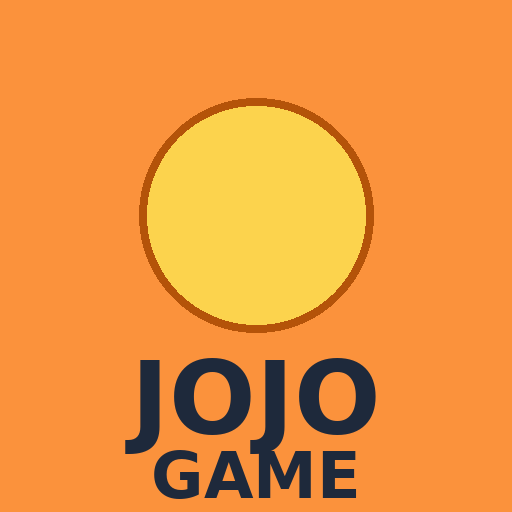
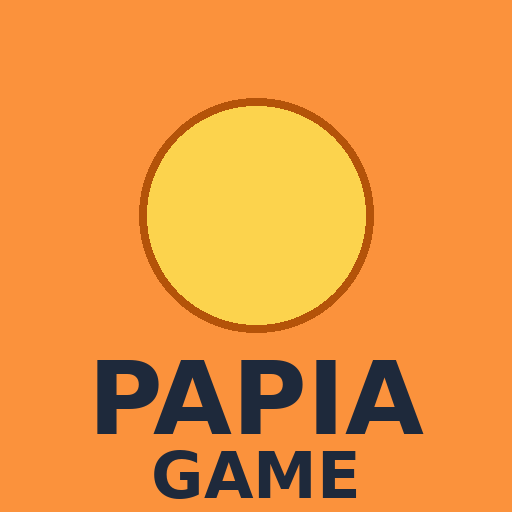
Add files via upload

Changed region(s): [[0.1875, 0.6875, 0.8438, 0.9062]]

diff --git a/index.html b/index.html
@@ -7,12 +7,12 @@
 <meta name="theme-color" content="#0f172a"/>
 <meta name="apple-mobile-web-app-capable" content="yes"/>
 <meta name="apple-mobile-web-app-status-bar-style" content="black-translucent"/>
-<meta name="apple-mobile-web-app-title" content="JOJO GAME"/>
+<meta name="apple-mobile-web-app-title" content="PAPIA GAME"/>
 <meta name="mobile-web-app-capable" content="yes"/>
 <link rel="manifest" href="manifest.json"/>
 <link rel="icon" type="image/png" sizes="192x192" href="icon-192.png"/>
 <link rel="apple-touch-icon" href="icon-512.png"/>
-<title>JOJO GAME - 12 Pièces Challenge</title>
+<title>PAPIA GAME - 12 Pièces Challenge</title>
 <style>
   * { color-scheme: dark; }
 
@@ -234,7 +234,7 @@
 <!-- WELCOME -->
 <div id="modeSelectOverlay" class="modal-overlay">
     <div class="welcome-container">
-        <h1 class="welcome-title" id="welcomeTitle" style="margin-top: 100px; padding-top: 30px;">🎮 JOJO GAME</h1>
+        <h1 class="welcome-title" id="welcomeTitle" style="margin-top: 100px; padding-top: 30px;">🎮 PAPIA GAME</h1>
         
         <p class="welcome-subtitle" id="welcomeSubtitle">Trouvez la fausse pièce parmi 12 en</p>
         
@@ -267,6 +267,7 @@
         <div class="lang-switcher">
             <button class="lang-btn active" id="btnFR">🇫🇷 Français</button>
             <button class="lang-btn" id="btnEN" style="font-weight: 900; font-size: 1.2rem; color: white !important; background: #1e293b !important;">🇬🇧 English</button>
+            <button class="lang-btn" id="btnThemes" style="font-weight: 900; font-size: 1.2rem;">🎨 Thèmes</button>
         </div>
         
         <div class="tutorial-link">
@@ -275,6 +276,65 @@
         
         <p class="welcome-note" id="welcomeNote">(La fausse pièce peut être plus lourde ou plus légère que les autres)</p>
     </div>
+</div>
+
+<!-- VICTORY MODAL -->
+
+<!-- THEMES MODAL -->
+<div id="themesOverlay" class="tutorial-overlay" style="display:none;">
+  <div class="tutorial-content" style="max-width: 500px; padding: 30px;">
+    <h2 style="color: #fb923c; margin: 0 0 20px 0; text-align: center;">🎨 Choisir un Thème</h2>
+    
+    <div id="themesGrid" style="display: grid; grid-template-columns: repeat(2, 1fr); gap: 15px; margin-bottom: 25px;">
+      <!-- Thème Orange -->
+      <div class="theme-card" data-theme="orange" style="cursor: pointer; padding: 20px; border-radius: 12px; text-align: center; border: 3px solid transparent; transition: all 0.3s; background: linear-gradient(135deg, #fb923c, #f97316);">
+        <div style="font-size: 2rem; margin-bottom: 8px;">🧡</div>
+        <div style="font-weight: bold; color: white;">Orange</div>
+        <div style="font-size: 0.85rem; color: rgba(255,255,255,0.9);">Classique</div>
+      </div>
+      
+      <!-- Thème Bleu -->
+      <div class="theme-card" data-theme="blue" style="cursor: pointer; padding: 20px; border-radius: 12px; text-align: center; border: 3px solid transparent; transition: all 0.3s; background: linear-gradient(135deg, #3b82f6, #2563eb);">
+        <div style="font-size: 2rem; margin-bottom: 8px;">💙</div>
+        <div style="font-weight: bold; color: white;">Bleu</div>
+        <div style="font-size: 0.85rem; color: rgba(255,255,255,0.9);">Océan</div>
+      </div>
+      
+      <!-- Thème Violet -->
+      <div class="theme-card" data-theme="purple" style="cursor: pointer; padding: 20px; border-radius: 12px; text-align: center; border: 3px solid transparent; transition: all 0.3s; background: linear-gradient(135deg, #a855f7, #9333ea);">
+        <div style="font-size: 2rem; margin-bottom: 8px;">💜</div>
+        <div style="font-weight: bold; color: white;">Violet</div>
+        <div style="font-size: 0.85rem; color: rgba(255,255,255,0.9);">Nuit</div>
+      </div>
+      
+      <!-- Thème Vert -->
+      <div class="theme-card" data-theme="green" style="cursor: pointer; padding: 20px; border-radius: 12px; text-align: center; border: 3px solid transparent; transition: all 0.3s; background: linear-gradient(135deg, #10b981, #059669);">
+        <div style="font-size: 2rem; margin-bottom: 8px;">💚</div>
+        <div style="font-weight: bold; color: white;">Vert</div>
+        <div style="font-size: 0.85rem; color: rgba(255,255,255,0.9);">Forêt</div>
+      </div>
+      
+      <!-- Thème Rose -->
+      <div class="theme-card" data-theme="pink" style="cursor: pointer; padding: 20px; border-radius: 12px; text-align: center; border: 3px solid transparent; transition: all 0.3s; background: linear-gradient(135deg, #ec4899, #db2777);">
+        <div style="font-size: 2rem; margin-bottom: 8px;">💗</div>
+        <div style="font-weight: bold; color: white;">Rose</div>
+        <div style="font-size: 0.85rem; color: rgba(255,255,255,0.9);">Cerise</div>
+      </div>
+      
+      <!-- Thème Noir -->
+      <div class="theme-card" data-theme="dark" style="cursor: pointer; padding: 20px; border-radius: 12px; text-align: center; border: 3px solid transparent; transition: all 0.3s; background: linear-gradient(135deg, #1e293b, #0f172a);">
+        <div style="font-size: 2rem; margin-bottom: 8px;">🖤</div>
+        <div style="font-weight: bold; color: white;">Noir</div>
+        <div style="font-size: 0.85rem; color: rgba(255,255,255,0.9);">Élégant</div>
+      </div>
+    </div>
+    
+    <button onclick="document.getElementById('themesOverlay').style.display='none'" 
+            class="primary action-button" 
+            style="width: 100%; padding: 15px; font-size: 1.1rem; background: linear-gradient(135deg, #10b981, #059669) !important;">
+      ✅ Fermer
+    </button>
+  </div>
 </div>
 
 <!-- VICTORY MODAL -->
@@ -405,9 +465,86 @@ window.addEventListener('error', function(e) {
 // Wait for DOM to be ready
 document.addEventListener('DOMContentLoaded', function() {
 
+// ========== THEME SYSTEM ==========
+const themes = {
+  orange: {
+    primary: '#fb923c',
+    secondary: '#f97316',
+    background: 'linear-gradient(135deg, #fb923c 0%, #f97316 100%)',
+    name: 'Orange'
+  },
+  blue: {
+    primary: '#3b82f6',
+    secondary: '#2563eb',
+    background: 'linear-gradient(135deg, #3b82f6 0%, #2563eb 100%)',
+    name: 'Bleu'
+  },
+  purple: {
+    primary: '#a855f7',
+    secondary: '#9333ea',
+    background: 'linear-gradient(135deg, #a855f7 0%, #9333ea 100%)',
+    name: 'Violet'
+  },
+  green: {
+    primary: '#10b981',
+    secondary: '#059669',
+    background: 'linear-gradient(135deg, #10b981 0%, #059669 100%)',
+    name: 'Vert'
+  },
+  pink: {
+    primary: '#ec4899',
+    secondary: '#db2777',
+    background: 'linear-gradient(135deg, #ec4899 0%, #db2777 100%)',
+    name: 'Rose'
+  },
+  dark: {
+    primary: '#1e293b',
+    secondary: '#0f172a',
+    background: 'linear-gradient(135deg, #1e293b 0%, #0f172a 100%)',
+    name: 'Noir'
+  }
+};
+
+let currentTheme = localStorage.getItem('jojoGameTheme') || 'orange';
+
+function applyTheme(themeName) {
+  const theme = themes[themeName];
+  if (!theme) return;
+  
+  currentTheme = themeName;
+  localStorage.setItem('jojoGameTheme', themeName);
+  
+  // Appliquer au mode select overlay
+  const overlay = document.getElementById('modeSelectOverlay');
+  if (overlay) {
+    overlay.style.background = theme.background;
+  }
+  
+  // Appliquer aux boutons mode
+  const beginnerBtn = document.querySelector('.mode-button.beginner');
+  const expertBtn = document.querySelector('.mode-button.expert');
+  if (beginnerBtn) {
+    beginnerBtn.style.background = `linear-gradient(135deg, ${theme.primary}, ${theme.secondary})`;
+  }
+  if (expertBtn) {
+    expertBtn.style.background = `linear-gradient(135deg, ${theme.primary}, ${theme.secondary})`;
+  }
+  
+  // Highlight du thème sélectionné
+  document.querySelectorAll('.theme-card').forEach(card => {
+    if (card.dataset.theme === themeName) {
+      card.style.border = '3px solid white';
+      card.style.transform = 'scale(1.05)';
+    } else {
+      card.style.border = '3px solid transparent';
+      card.style.transform = 'scale(1)';
+    }
+  });
+}
+
 const T = {
   fr: {
-    welcome: "🎮 JOJO GAME",
+    welcome: "🎮 PAPIA GAME",
     subtitle: "Trouvez la fausse pièce parmi 12 en",
     highlight: "✨ 3 PESÉES MAXIMUM ✨",
     
@@ -501,7 +638,7 @@ const T = {
     tutorialClose: "C'est Compris ! 🚀"
   },
   en: {
-    welcome: "🎮 JOJO GAME",
+    welcome: "🎮 PAPIA GAME",
     subtitle: "Find the fake coin among 12 in",
     highlight: "✨ 3 WEIGHINGS MAXIMUM ✨",
     
@@ -1461,7 +1598,22 @@ document.getElementById('btnNew2').addEventListener('click', () => {
 document.getElementById('btnFR').addEventListener('click', () => setLang('fr'));
 document.getElementById('btnEN').addEventListener('click', () => setLang('en'));
 
+// Bouton Thèmes
+document.getElementById('btnThemes').onclick = function() {
+  document.getElementById('themesOverlay').style.display = 'flex';
+  applyTheme(currentTheme); // Highlight le thème actuel
+};
+
+// Event listeners pour chaque thème
+document.querySelectorAll('.theme-card').forEach(card => {
+  card.onclick = function() {
+    const themeName = this.dataset.theme;
+    applyTheme(themeName);
+  };
+});
+
 setLang('fr');
+applyTheme(currentTheme); // Appliquer le thème sauvegardé
 document.getElementById('modeSelectOverlay').style.display = 'flex';
 
 // ========== PWA: Service Worker Registration ==========
@@ -1521,7 +1673,7 @@ function showIOSInstallPrompt() {
     
     popup.innerHTML = `
       <div style="font-size: 3rem; margin-bottom: 15px;">📲</div>
-      <h2 style="color: #fb923c; margin: 0 0 15px 0; font-size: 1.5rem;">Installer JOJO GAME</h2>
+      <h2 style="color: #fb923c; margin: 0 0 15px 0; font-size: 1.5rem;">Installer PAPIA GAME</h2>
       <p style="margin: 15px 0; line-height: 1.6; color: #cbd5e1;">
         Pour jouer hors ligne et accéder plus rapidement au jeu :
       </p>
